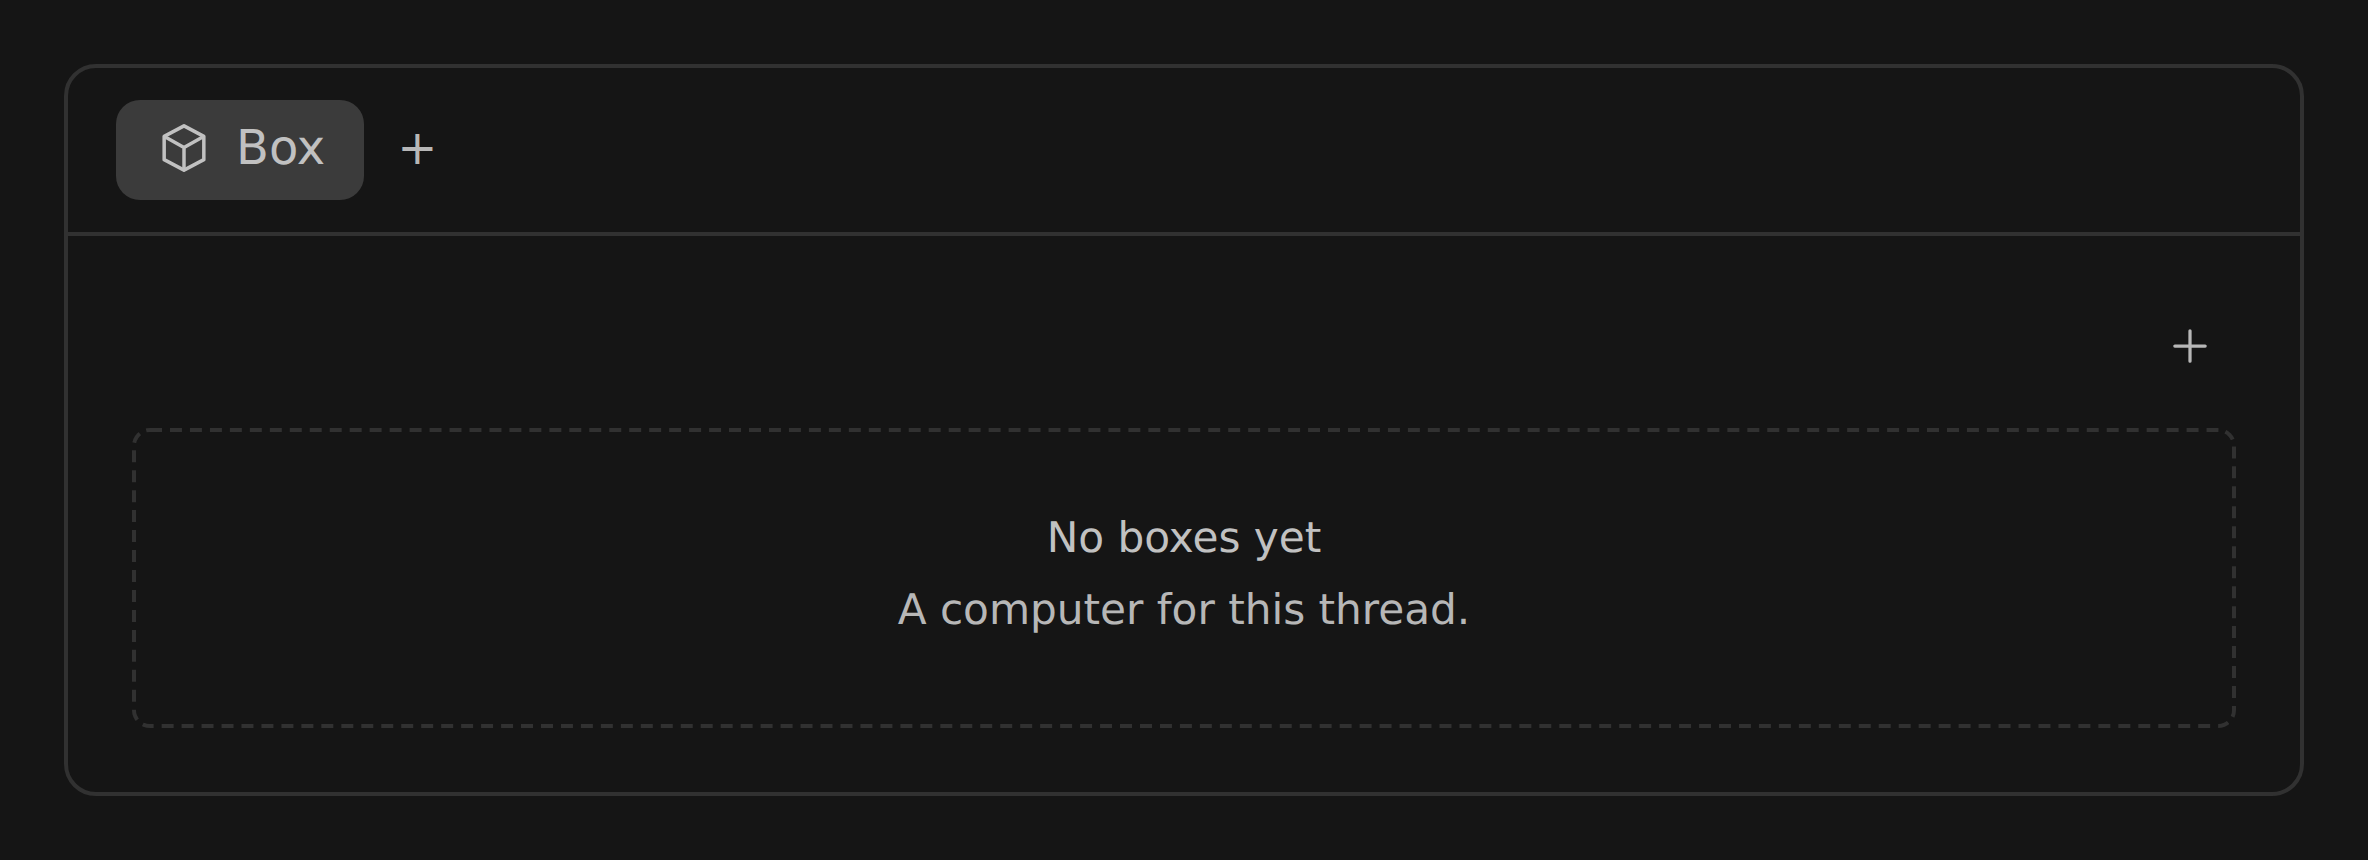
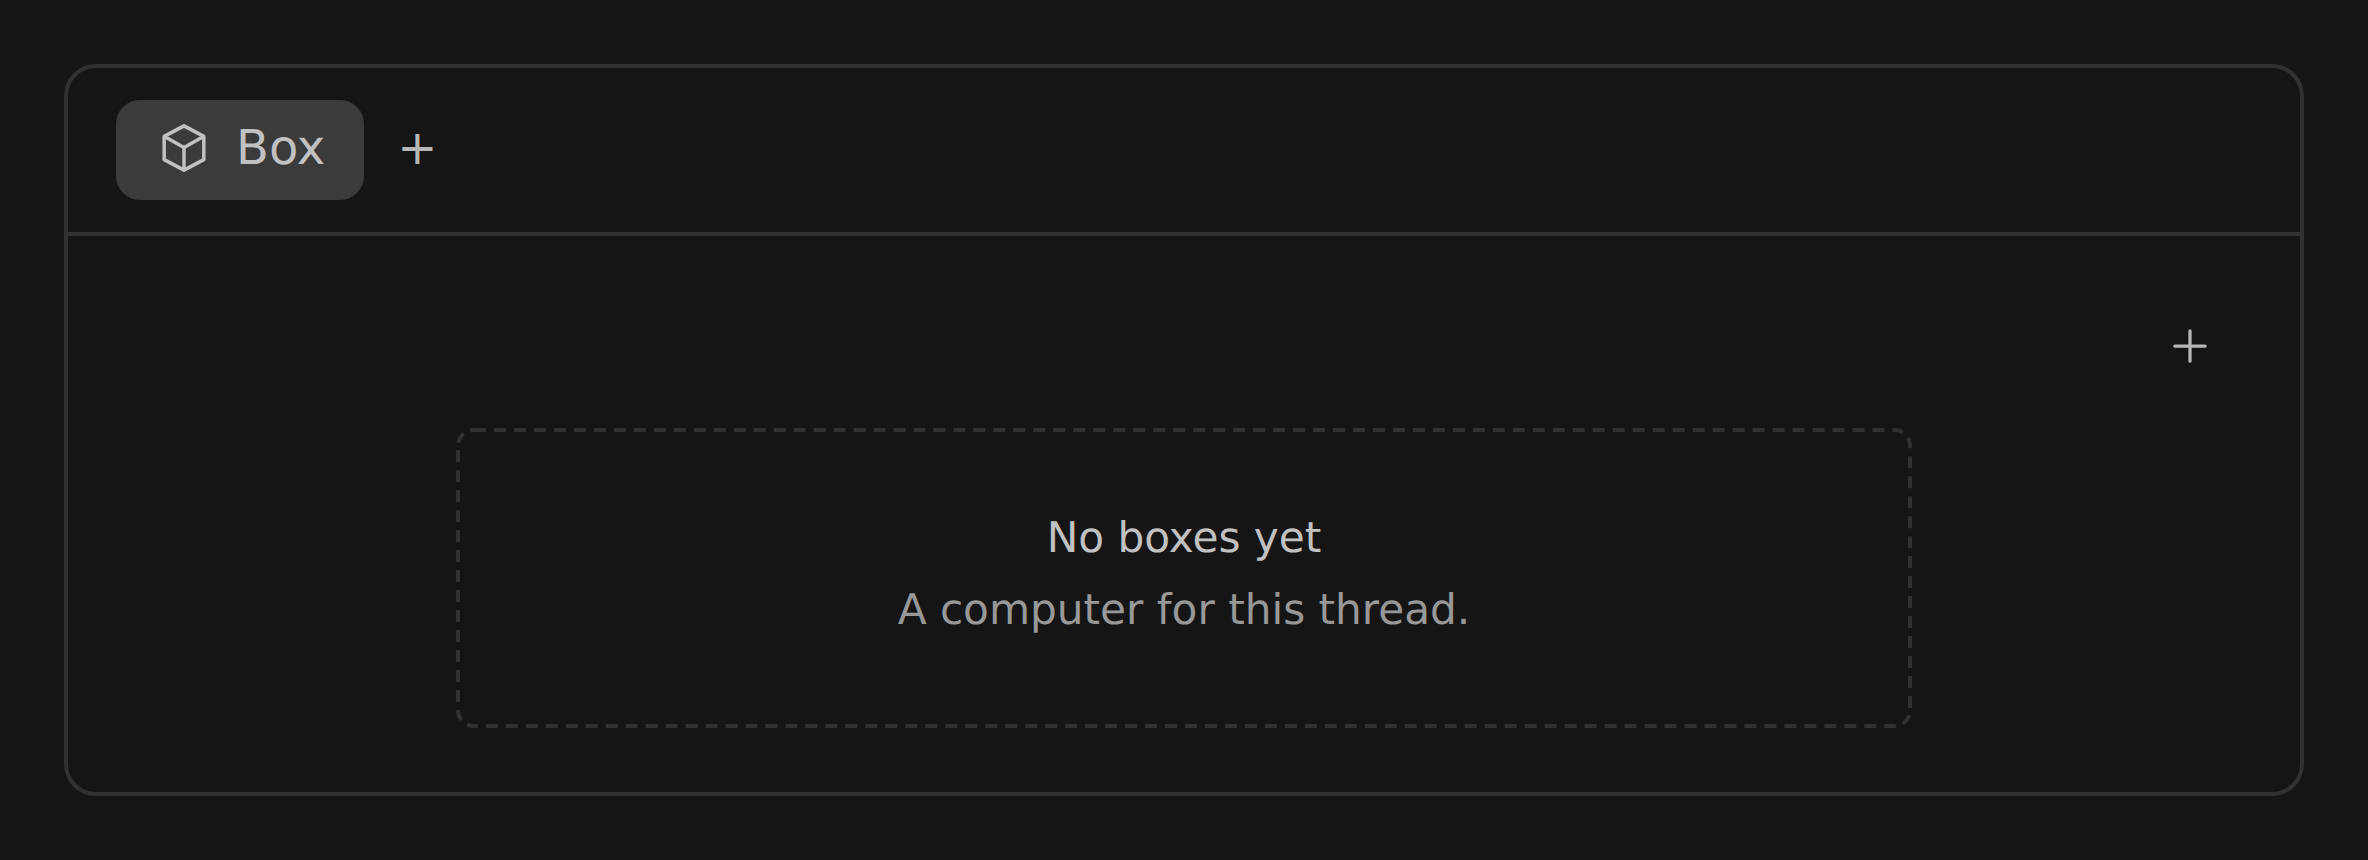
fix(settings): one border around an empty state, dimmer and narrower, and a shorter machines hint
The operator's notes of 1 October 2026 on Your machines: the empty state
sat in the section's grey card with its own dashed border inside, two
borders; its text was as bright as the rest and ran the full width. A
Section can now be plain, with no card, which Your machines is while it
has no rows; BB's dashed empty panel gets a narrow centred measure
(max-w-md) and the subtle foreground for its text, in the panel too.

The hint above the machines drops "and choose Set up on it once": it now
reads "To use one for a project with a repository, pick it in BB's
new-thread picker."

Changed region(s): [[0.375, 0.6953, 0.625, 0.7256], [0.7812, 0.8163, 0.8125, 0.8465], [0.0625, 0.4837, 0.0938, 0.514]]

diff --git a/src/app/settings-fields.tsx b/src/app/settings-fields.tsx
@@ -17,7 +17,20 @@ import { isSecretField, isSecretState, type FormValue } from "./config.ts";
 
 /** BB's small badge beside a setting's label. */
 /** A block of the page, titled as BB titles a plugin's settings sections, with room for one action beside the title. */
-export function Section({ title, description, action, children }: { title: string; description?: string; action?: ReactNode; children: ReactNode }) {
+export function Section({
+  title,
+  description,
+  action,
+  plain = false,
+  children,
+}: {
+  title: string;
+  description?: string;
+  action?: ReactNode;
+  /** No card around the children: for an empty state, which has a dashed border of its own (the operator's note of 1 October 2026). */
+  plain?: boolean;
+  children: ReactNode;
+}) {
   return (
     <section className="space-y-3">
       <div className="flex items-start justify-between gap-3">
@@ -27,9 +40,13 @@ export function Section({ title, description, action, children }: { title: strin
         </div>
         {action ? <div className="shrink-0">{action}</div> : null}
       </div>
-      <div className="rounded-lg border border-border bg-card px-4 py-3.5">
-        <div className="divide-y divide-border">{children}</div>
-      </div>
+      {plain ? (
+        <div className="space-y-2">{children}</div>
+      ) : (
+        <div className="rounded-lg border border-border bg-card px-4 py-3.5">
+          <div className="divide-y divide-border">{children}</div>
+        </div>
+      )}
     </section>
   );
 }

diff --git a/src/app/settings-machines.tsx b/src/app/settings-machines.tsx
@@ -83,7 +83,7 @@ export function MachinesSection() {
   };
 
   return (
-    <Section title="Your machines" description="Boxes of your own, kept as BB machines." action={<NewBox kinds={kinds} make={add} machine />}>
+    <Section title="Your machines" description="Boxes of your own, kept as BB machines." action={<NewBox kinds={kinds} make={add} machine />} plain={!machines.length}>
       {error ? <EmptyPanel role="alert">{error}</EmptyPanel> : null}
       {problem ? (
         <p role="alert" className="py-2 text-xs leading-snug text-destructive-text">
@@ -96,7 +96,7 @@ export function MachinesSection() {
       {machines.length ? (
         // A project with a repository needs a source on a machine once, which BB's picker sets up (036).
         <p className="pb-2 text-2xs leading-snug text-subtle-foreground/75">
-          To use one for a project with a repository, pick it in BB's new-thread picker and choose Set up on it once.
+          To use one for a project with a repository, pick it in BB's new-thread picker.
         </p>
       ) : null}
       {machines.map((entry) => (

diff --git a/test/app.test.tsx b/test/app.test.tsx
@@ -1270,7 +1270,7 @@ test("the settings page lists your machines with their threads and actions, and 
   expect(slot.getByText("Working: Fix the login form · 1 more")).toBeTruthy();
   expect(slot.getByText("scratch")).toBeTruthy();
   // Said once for the section, not under each machine.
-  expect(slot.getAllByText("To use one for a project with a repository, pick it in BB's new-thread picker and choose Set up on it once.")).toHaveLength(1);
+  expect(slot.getAllByText("To use one for a project with a repository, pick it in BB's new-thread picker.")).toHaveLength(1);
   expect(slot.getByRole("button", { name: "Open desktop" })).toBeTruthy();
   expect(slot.getByRole("button", { name: "Open terminal" })).toBeTruthy();
   expect(slot.getByRole("button", { name: "Stop" })).toBeTruthy();

diff --git a/src/app/common.tsx b/src/app/common.tsx
@@ -219,7 +219,7 @@ export function KindBadges({ desktop = false, gpu, docker = false, arm64 = false
 /** BB's dashed empty panel. */
 export function EmptyPanel({ title, children, className, role }: { title?: string; children?: ReactNode; className?: string; role?: string }) {
   return (
-    <div role={role} className={cn("rounded-md border border-dashed border-border px-3 py-6 text-center text-sm text-muted-foreground", className)}>
+    <div role={role} className={cn("mx-auto max-w-md rounded-md border border-dashed border-border px-6 py-6 text-center text-sm text-subtle-foreground", className)}>
       {title ? <p className="font-medium text-foreground">{title}</p> : null}
       {children}
     </div>

diff --git a/docs/design/settings.md b/docs/design/settings.md
@@ -86,7 +86,11 @@ Boxes of your own, kept as BB machines.
   name, a kind that cannot enrol) shows under the button. The new row
   shows "Starting" with its time until the machine is ready and in BB.
 - Empty: "Add a box as a BB machine of your own. It shows in BB's machine
-  list and new-thread picker, and stays until you remove it here."
+  list and new-thread picker, and stays until you remove it here.", in
+  BB's dashed empty panel on its own, with no card around it: one border,
+  a narrow centred measure, and the subtle foreground (the operator's note
+  of 1 October 2026). The hint above the rows reads "To use one for a
+  project with a repository, pick it in BB's new-thread picker."
 - The section reads `machines.list` and refetches on the "operator"
   signal; `machines.add`, `machines.remove`, `machines.stop` and
   `machines.start` do the rest.
